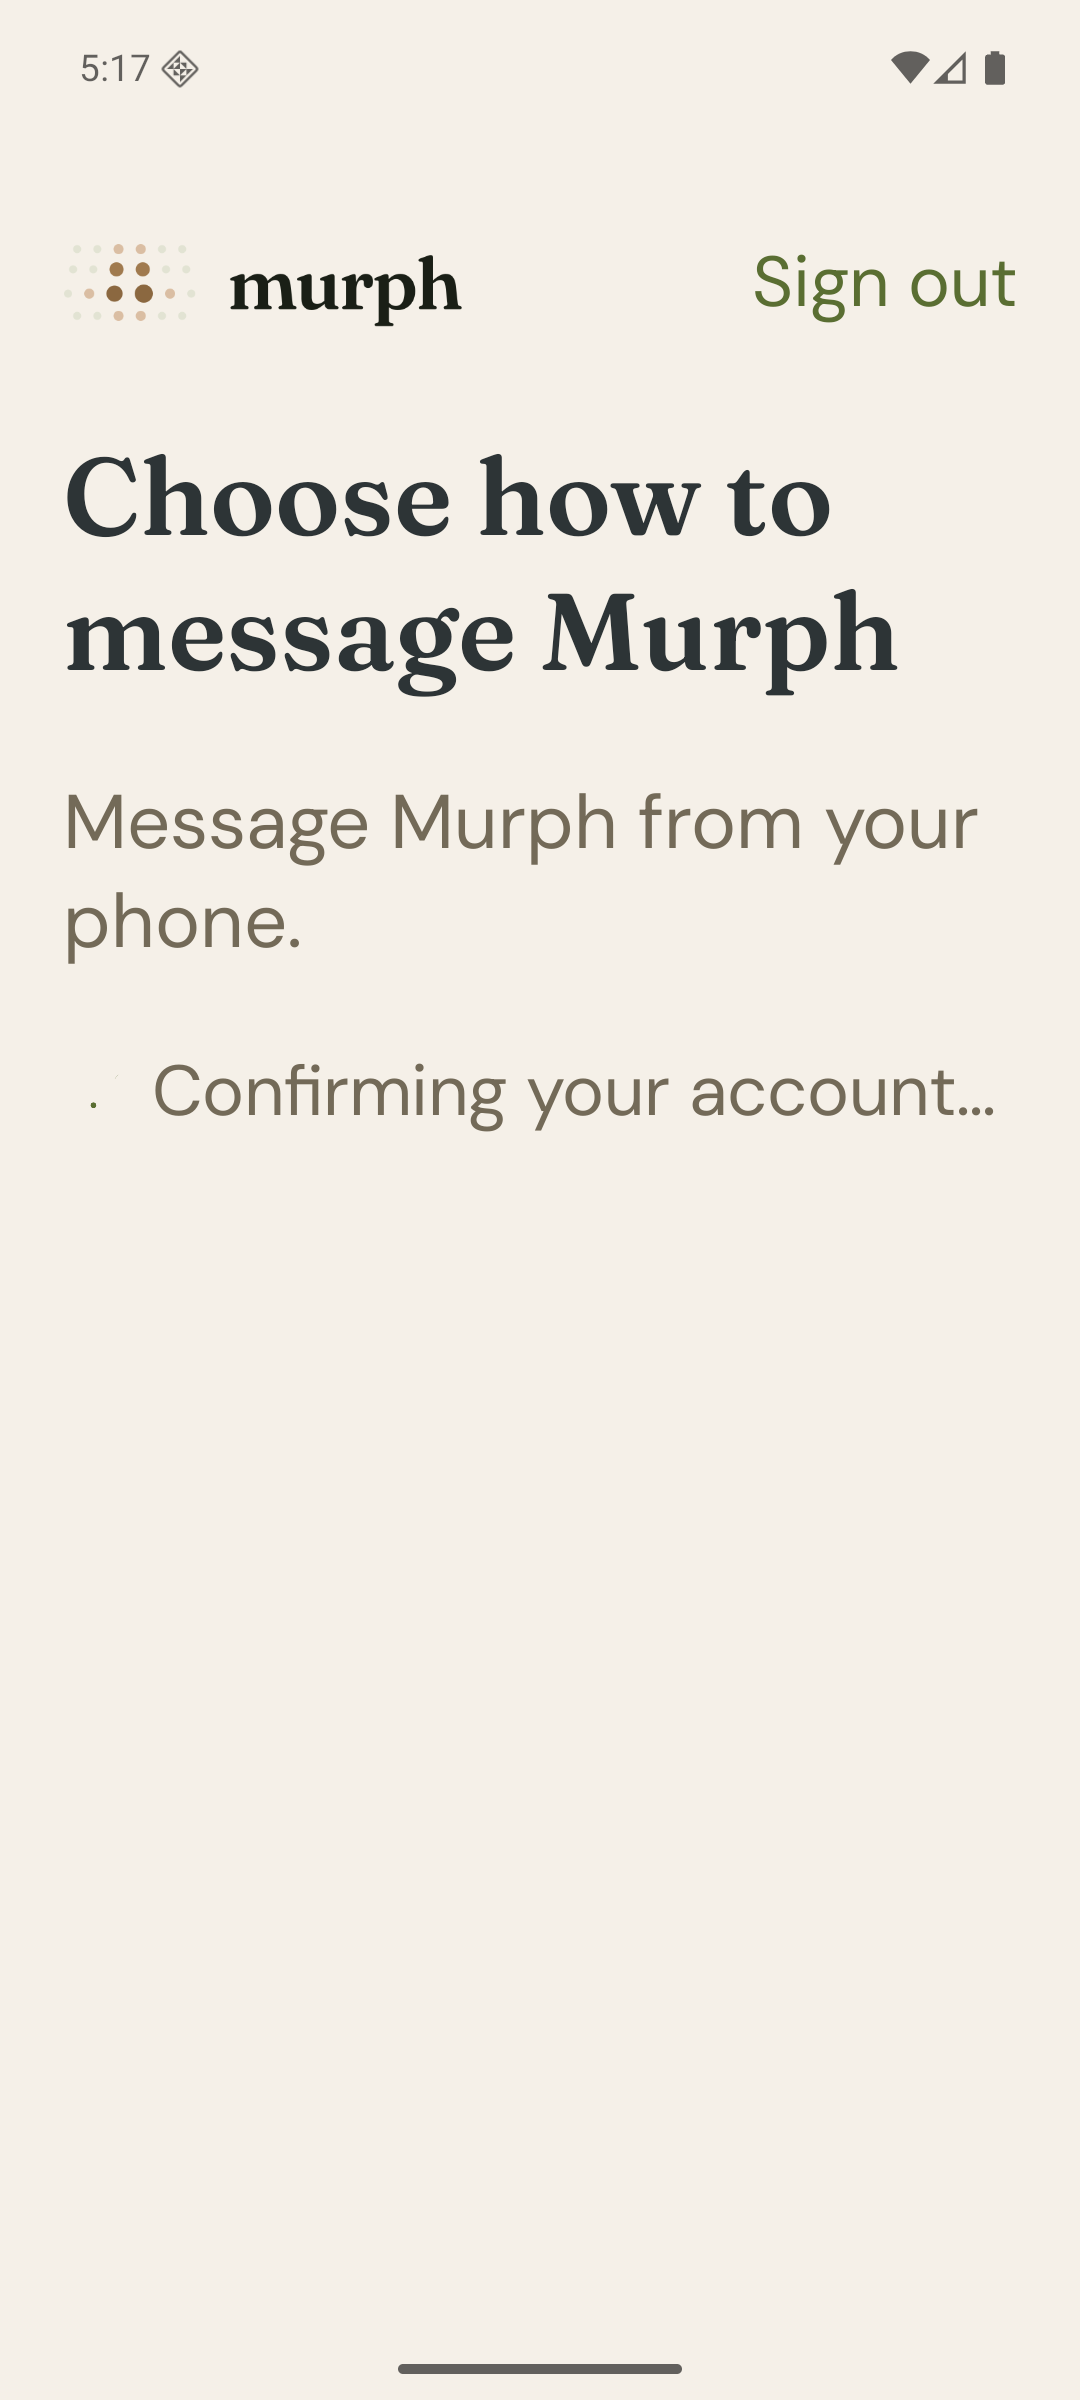
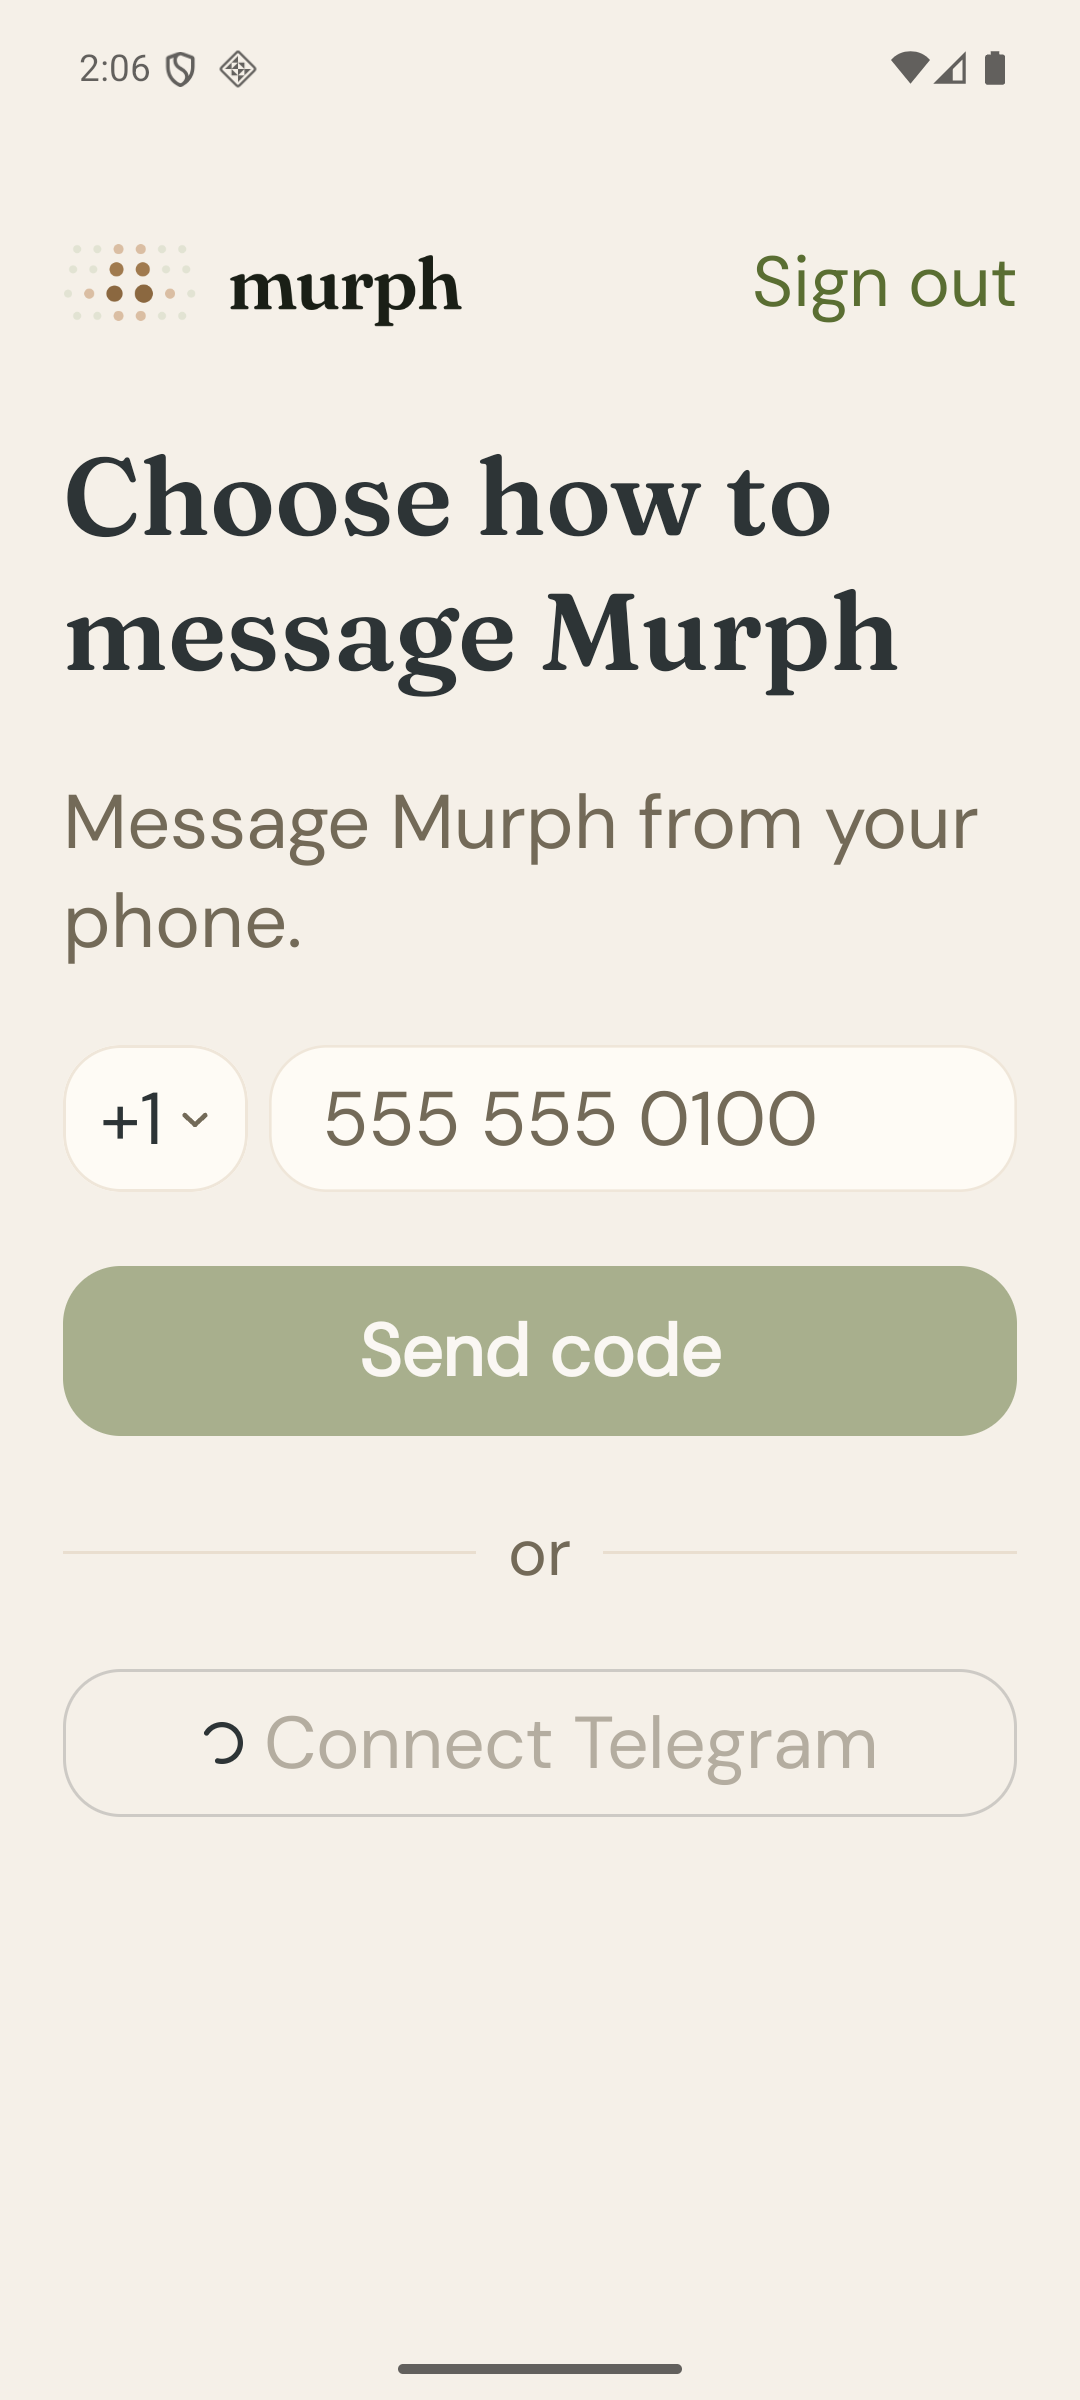
fix(onboarding): keep Telegram progress in its button (#57)
* fix(onboarding): keep Telegram progress in its button

Tapping Connect Telegram replaced every control with "Confirming your
account…", which read as the button vanishing. Progress now stays in the
control that started it: Connect Telegram shows a spinner (with Cancel below
it only while approving in Telegram), Send code keeps its own spinner, and a
code-step re-check reuses the spinner under the code entry. Controls stay in
place and disabled. This deletes the separate replace-the-controls state and
matches murph-ios PR 190.

* test(onboarding): add in-button Telegram progress evidence

---------

diff --git a/app/src/androidTestSynthetic/java/ai/withmurph/companion/visual/ScreenshotScenarioSmokeTest.kt b/app/src/androidTestSynthetic/java/ai/withmurph/companion/visual/ScreenshotScenarioSmokeTest.kt
@@ -36,17 +36,31 @@ class ScreenshotScenarioSmokeTest {
     @Test
     fun launchingMessagingAdmissionKeepsProgressAndSignOutReachable() {
         val context = ApplicationProvider.getApplicationContext<Context>()
-        for (fontScale in listOf(1.0f, 2.0f)) for (state in listOf("connected", "phone")) {
+        for (fontScale in listOf(1.0f, 2.0f)) for (state in listOf("connected", "phone", "code")) {
             val intent = Intent(context, ScreenshotActivity::class.java)
                 .putExtra(ScreenshotActivity.SCENARIO_EXTRA, "messagingSetupConfirming")
                 .putExtra("messagingState", state)
                 .putExtra("messagingFontScale", fontScale)
             ActivityScenario.launch<ScreenshotActivity>(intent).use { scenario ->
-                compose.onNodeWithText(if (state == "phone") "Choose how to message Murph" else "Account connected").assertIsDisplayed()
-                // Progress renders inline in the content flow; a re-check from the
-                // phone step replaces its controls instead of covering them.
-                compose.onNodeWithText("Confirming your account…").performScrollTo().assertIsDisplayed()
-                if (state == "phone") compose.onAllNodesWithText("Send code").assertCountEquals(0)
+                // Progress stays in the control that started it; controls stay
+                // in place, disabled, instead of being replaced by a status line.
+                when (state) {
+                    "phone" -> {
+                        compose.onNodeWithText("Choose how to message Murph").assertIsDisplayed()
+                        compose.onNodeWithText("Connect Telegram").performScrollTo().assertIsDisplayed().assertIsNotEnabled()
+                        compose.onNodeWithText("Send code").assertIsNotEnabled()
+                        compose.onAllNodesWithText("Confirming your account…").assertCountEquals(0)
+                    }
+                    "code" -> {
+                        compose.onNodeWithContentDescription("6-digit verification code").assertIsDisplayed()
+                        compose.onNodeWithContentDescription("Checking code").assertIsDisplayed()
+                        compose.onAllNodesWithText("Confirming your account…").assertCountEquals(0)
+                    }
+                    else -> {
+                        compose.onNodeWithText("Account connected").assertIsDisplayed()
+                        compose.onNodeWithText("Confirming your account…").performScrollTo().assertIsDisplayed()
+                    }
+                }
                 // Native linking retains its existing sign-out escape during admission.
                 compose.onNodeWithText("Sign out").performScrollTo().performClick()
                 scenario.onActivity { assertEquals(1, it.signOutRequests) }
@@ -62,7 +76,9 @@ class ScreenshotScenarioSmokeTest {
                 .putExtra(ScreenshotActivity.SCENARIO_EXTRA, "messagingSetup")
                 .putExtra("messagingState", state)
             ActivityScenario.launch<ScreenshotActivity>(intent).use {
-                compose.onNodeWithText("Confirming your account…").assertIsDisplayed()
+                compose.onNodeWithText("Connect Telegram").assertIsDisplayed().assertIsNotEnabled()
+                compose.onNodeWithText("Send code").assertIsNotEnabled()
+                compose.onAllNodesWithText("Confirming your account…").assertCountEquals(0)
                 // Only approval in Telegram can be cancelled; a submitted proof
                 // always finishes confirming.
                 compose.onAllNodesWithContentDescription("Cancel Telegram login")
@@ -85,23 +101,24 @@ class ScreenshotScenarioSmokeTest {
     }
 
     @Test
-    fun recheckFromCodeStepNeverFocusesHiddenCodeEntry() {
+    fun recheckFromCodeStepNeverFocusesDisabledCodeEntry() {
         val context = ApplicationProvider.getApplicationContext<Context>()
         for (scenarioName in listOf("messagingSetupConfirming", "messagingSetup")) {
             val intent = Intent(context, ScreenshotActivity::class.java)
                 .putExtra(ScreenshotActivity.SCENARIO_EXTRA, scenarioName)
                 .putExtra("messagingState", "code")
                 .putExtra("messagingAutofocus", true)
-            // A recreated Activity during a code-step re-check must not request
-            // focus for the OTP field that progress has replaced.
+            // A recreated Activity during a code-step re-check keeps the OTP field
+            // disabled (unfocusable) and must not request focus for it.
             ActivityScenario.launch<ScreenshotActivity>(intent).use { scenario ->
                 compose.waitForIdle()
                 if (scenarioName == "messagingSetupConfirming") {
-                    compose.onNodeWithText("Confirming your account…").assertIsDisplayed()
-                    compose.onAllNodesWithContentDescription("6-digit verification code").assertCountEquals(0)
+                    compose.onNodeWithContentDescription("Checking code").assertIsDisplayed()
+                    compose.onNodeWithContentDescription("6-digit verification code").assertIsNotEnabled()
                     scenario.recreate()
                     compose.waitForIdle()
-                    compose.onNodeWithText("Confirming your account…").assertIsDisplayed()
+                    compose.onNodeWithContentDescription("Checking code").assertIsDisplayed()
+                    compose.onNodeWithContentDescription("6-digit verification code").assertIsNotEnabled()
                 } else {
                     compose.onNodeWithContentDescription("6-digit verification code").assertIsDisplayed()
                 }
@@ -126,7 +143,7 @@ class ScreenshotScenarioSmokeTest {
                         compose.onNodeWithContentDescription("6-digit verification code").performScrollTo().assertFullyContained()
                         listOf("Use a different number")
                     }
-                    "waiting" -> emptyList()
+                    "waiting" -> listOf("Connect Telegram")
                     else -> {
                         compose.onNodeWithContentDescription("Country or region", substring = true)
                             .performScrollTo().assertFullyContained().assertHasClickAction()
@@ -143,7 +160,8 @@ class ScreenshotScenarioSmokeTest {
                     compose.onNodeWithText(label).performScrollTo().assertFullyContained().assertHasClickAction()
                 }
                 if (state == "waiting") {
-                    compose.onNodeWithContentDescription("Cancel Telegram login").assertFullyContained().assertHasClickAction()
+                    compose.onNodeWithContentDescription("Cancel Telegram login").performScrollTo().assertFullyContained()
+                        .assertHasClickAction()
                 }
                 // Returning to the top must also leave the exit action reachable.
                 compose.onNodeWithText("Sign out").performScrollTo().assertFullyContained().assertHasClickAction()

diff --git a/app/src/main/java/ai/withmurph/companion/ui/onboarding/MessagingSetupScreen.kt b/app/src/main/java/ai/withmurph/companion/ui/onboarding/MessagingSetupScreen.kt
@@ -82,20 +82,19 @@ fun MessagingSetupScreen(
     onConfirmConnected: () -> Unit,
     onSignOut: () -> Unit,
 ) {
-    // Like iOS, progress renders inline in the content flow, never over it,
-    // so no control is covered at any text size.
+    // Like iOS, progress stays in the control that started it; controls stay
+    // in place, disabled, at every text size.
     val refreshing = state.isMessagingSetupRefreshing
     val busy = refreshing || link.busy
-    val telegramBusy = link.telegram != TelegramProgress.None && link.busy
-    val confirmingInPlaceOfControls = telegramBusy ||
-        refreshing && (link.stage == MessagingStage.Phone || link.stage == MessagingStage.Code)
-    val codeEntryVisible = link.stage == MessagingStage.Code && !confirmingInPlaceOfControls
+    // A phone-step re-check only follows a Telegram attempt.
+    val telegramBusy = link.telegram != TelegramProgress.None || refreshing && link.stage == MessagingStage.Phone
+    val codeEntryReady = link.stage == MessagingStage.Code && !busy
     var countryPicker by remember { mutableStateOf(false) }
     val codeFocus = remember { FocusRequester() }
     val focusManager = LocalFocusManager.current
-    // Focus only an attached field: a re-check replaces code entry with progress.
-    LaunchedEffect(link.stage, codeEntryVisible) {
-        if (codeEntryVisible && autofocusCode) codeFocus.requestFocus()
+    // Focus code entry only while it accepts input, never during a re-check.
+    LaunchedEffect(link.stage, codeEntryReady) {
+        if (codeEntryReady && autofocusCode) codeFocus.requestFocus()
         else focusManager.clearFocus()
     }
     if (countryPicker) CountryPicker(link.country, { onCountry(it); countryPicker = false }, { countryPicker = false })
@@ -136,17 +135,7 @@ fun MessagingSetupScreen(
                     color = MurphColors.SlateMuted,
                 )
             }
-            if (confirmingInPlaceOfControls) {
-                Column(
-                    modifier = Modifier.fillMaxWidth(),
-                    horizontalAlignment = Alignment.CenterHorizontally,
-                    verticalArrangement = Arrangement.spacedBy(8.dp),
-                ) {
-                    MessagingStatus("Confirming your account…")
-                    if (link.telegram == TelegramProgress.Approving) MurphLinkButton("Cancel", onCancelTelegram,
-                        modifier = Modifier.semantics { contentDescription = "Cancel Telegram login" })
-                }
-            } else when (link.stage) {
+            when (link.stage) {
                 MessagingStage.Phone -> {
                     Column(verticalArrangement = Arrangement.spacedBy(8.dp)) {
                         Row(horizontalArrangement = Arrangement.spacedBy(8.dp)) {
@@ -162,7 +151,7 @@ fun MessagingSetupScreen(
                     }
                     MurphPrimaryButton(
                         "Send code", onSend, enabled = !busy,
-                        leadingContent = if (link.busy) {
+                        leadingContent = if (link.busy && link.telegram == TelegramProgress.None) {
                             { CircularProgressIndicator(Modifier.size(16.dp), color = MurphColors.OnPrimary, strokeWidth = 2.dp) }
                         } else null,
                     )
@@ -172,7 +161,15 @@ fun MessagingSetupScreen(
                         Box(Modifier.weight(1f).height(1.dp).background(MurphColors.BorderWarm))
                     }
                     Column(verticalArrangement = Arrangement.spacedBy(8.dp)) {
-                        MurphOutlineButton("Connect Telegram", onTelegram, enabled = !busy, modifier = Modifier.fillMaxWidth().heightIn(min = 56.dp))
+                        MurphOutlineButton(
+                            "Connect Telegram", onTelegram, enabled = !busy, modifier = Modifier.fillMaxWidth().heightIn(min = 56.dp),
+                            leadingContent = if (telegramBusy) {
+                                { CircularProgressIndicator(Modifier.size(16.dp), color = MurphColors.Slate, strokeWidth = 2.dp) }
+                            } else null,
+                        )
+                        if (link.telegram == TelegramProgress.Approving) MurphLinkButton("Cancel", onCancelTelegram,
+                            modifier = Modifier.align(Alignment.CenterHorizontally)
+                                .semantics { contentDescription = "Cancel Telegram login" })
                         if (link.telegramError) MessagingError(link, !busy, onOpenAccountSettings)
                     }
                 }
@@ -184,7 +181,7 @@ fun MessagingSetupScreen(
                     }
                     Column(verticalArrangement = Arrangement.spacedBy(8.dp)) {
                         OtpInput(link.code, onCode, codeFocus, onVerify, !busy)
-                        if (link.busy) {
+                        if (busy) {
                             CircularProgressIndicator(
                                 modifier = Modifier.align(Alignment.CenterHorizontally).size(16.dp)
                                     .semantics { contentDescription = "Checking code" },

diff --git a/app/src/main/java/ai/withmurph/companion/ui/components/MurphComponents.kt b/app/src/main/java/ai/withmurph/companion/ui/components/MurphComponents.kt
@@ -135,6 +135,7 @@ fun MurphOutlineButton(
     onClick: () -> Unit,
     modifier: Modifier = Modifier,
     enabled: Boolean = true,
+    leadingContent: @Composable (() -> Unit)? = null,
 ) {
     OutlinedButton(
         onClick = onClick,
@@ -148,7 +149,10 @@ fun MurphOutlineButton(
             disabledContentColor = MurphColors.SlateMuted.copy(alpha = 0.5f),
         ),
     ) {
-        Text(text = text, style = MaterialTheme.typography.bodyLarge)
+        Row(horizontalArrangement = Arrangement.spacedBy(8.dp), verticalAlignment = Alignment.CenterVertically) {
+            leadingContent?.invoke()
+            Text(text = text, style = MaterialTheme.typography.bodyLarge)
+        }
     }
 }
 
